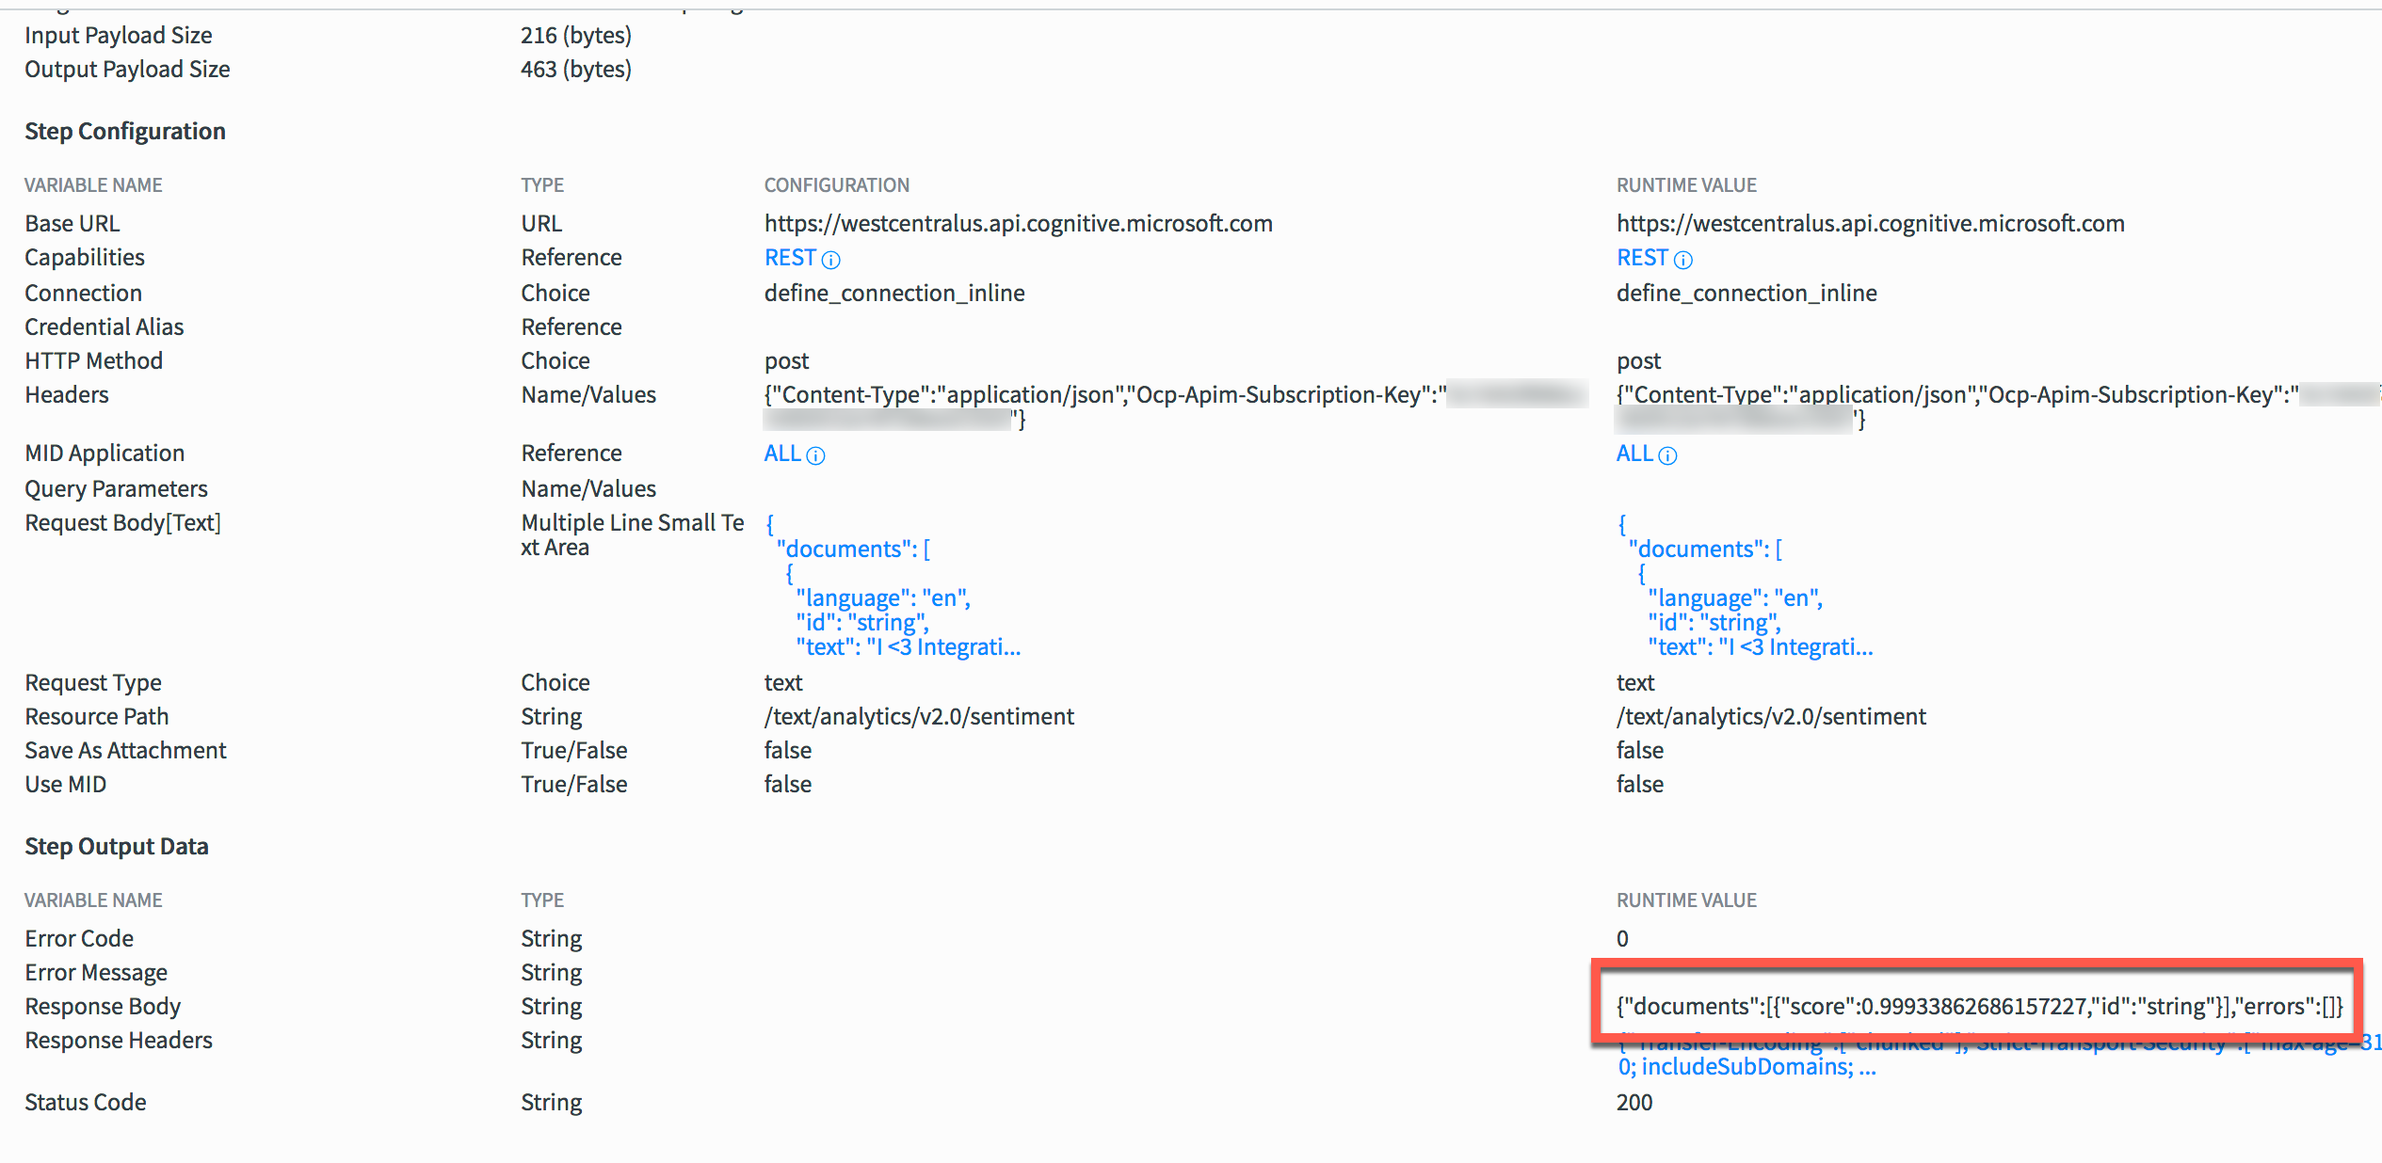
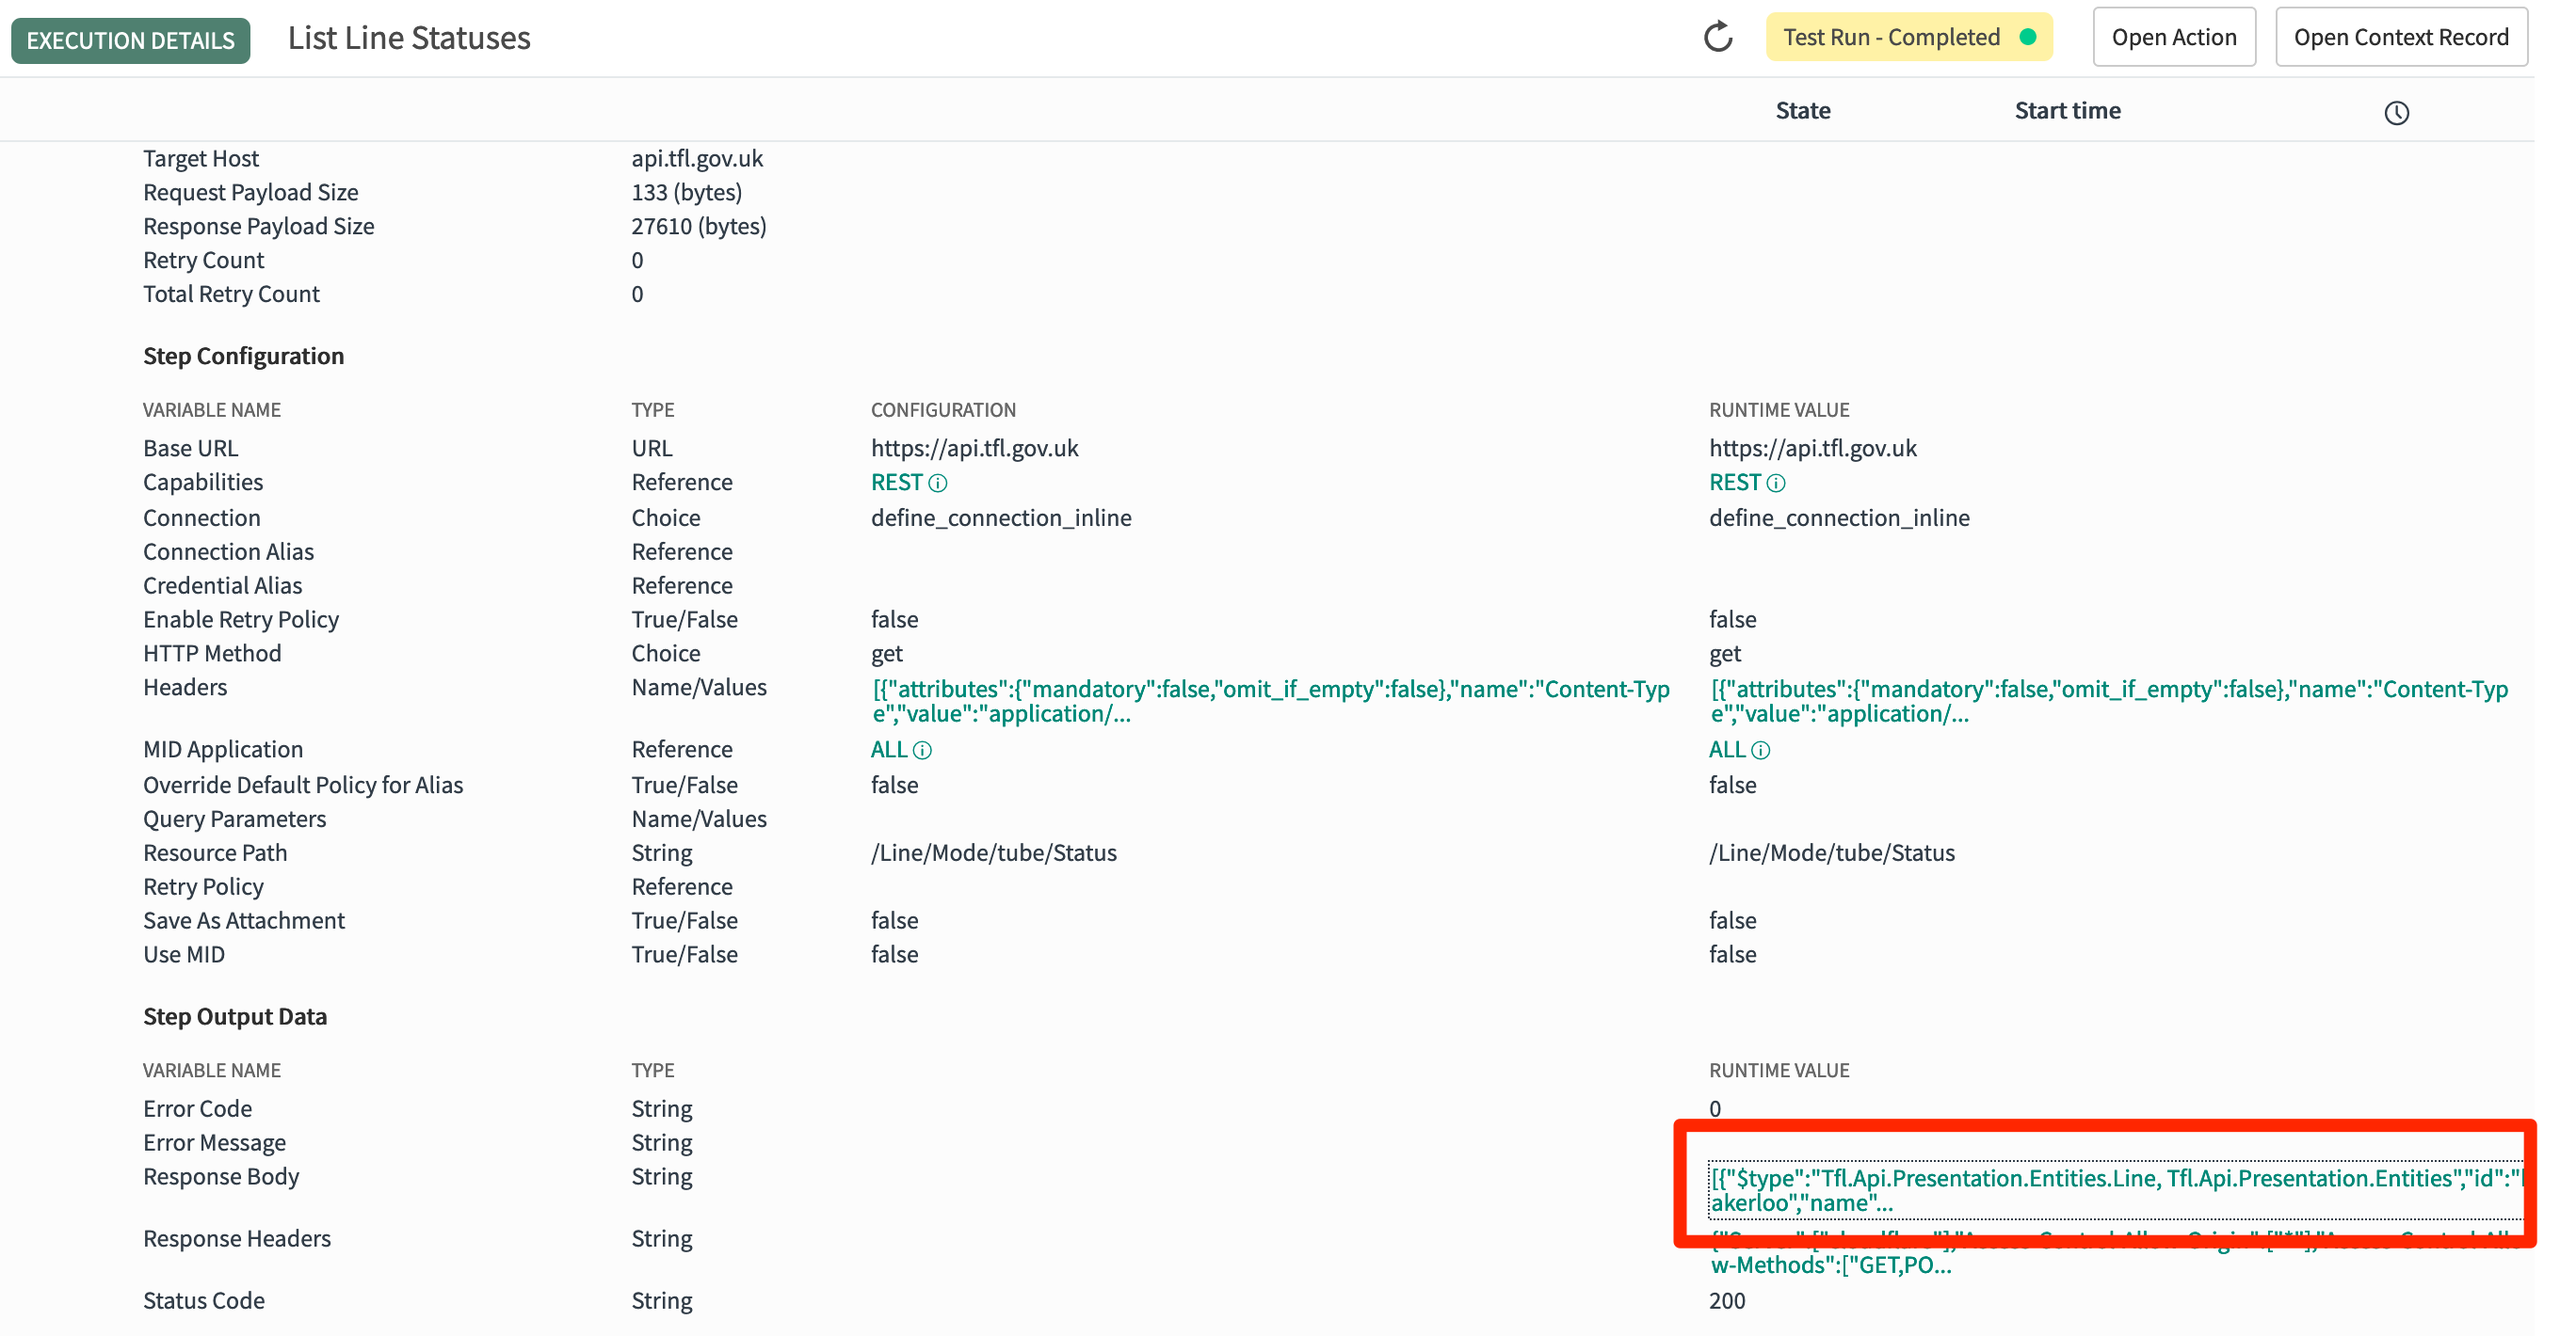
Finished the REST step section

diff --git a/guidebook.md b/guidebook.md
@@ -233,15 +233,13 @@ In this exercise, we will start with an inline connection, and convert the actio
 
 1. Change the **Connection** choice to “Define Connection Inline”.
 . Set the **Base URL** to `https://api.tfl.gov.uk`
-1. Set the **Resource Path** to `/Line/Mode/{modes}/Status`
-1.  Inside the **Resource Path** backspace to remove the `{modes}` portion. Drag the **Modes** Data Pill from the input between the now empty slashes so that it looks like this:
-    ![Drag the Data Pill to the Resource Path](images/042a_resource_path_with_pill.png)
-1. Make sure there are no leading/trailing spaces in the Base URL and Resource Path fields. Also verify there are no spaces between the slashes and data pill.
+1. Set the **Resource Path** to `/Line/Mode/tube/Status`
+1. Make sure there are no leading/trailing spaces in the Base URL and Resource Path fields. 
 1. Set the **HTTP Method** to “GET”.
 
 ### Add Headers
 
-You will add two request headers.
+You will add one request header.
 
 1. Beside the **Headers** widget, click the **+** icon.
     ![Alt Text](images/042b_add_header.png)
@@ -254,44 +252,29 @@ The headers widget should now look something like this:
 
 ![Alt Text](images/043_headers.png)
 
-### Set Request Body
-
-Under the **Request Content** section, set the **Request Body** to:
-
-    {
-       "documents":  [
-            {
-                "language": "en",
-                "id": "string",
-                "text": "I <3 IntegrationHub"
-            }
-        ]
-    }
 
 **Save** the action.
 
 ### Test the Action
 
-Using the same steps you followed earlier, test the action again. This time, inspect the details of the REST step. If everything worked correctly, you will see a response from the Sentiment API.
+Using the same steps you followed earlier, test the action again. This time, inspect the details of the REST step. If everything worked correctly, you will see a response from the Transit API.
 
 ![Alt Text](images/044_result_of_rest_test.png)
 
 ## Data Pills
 
-There’s problem with the REST step you just configured. You hard-coded the message into the Body. Action Designer gives you the ability to include “Data Pills” (those blue things in the Data Pane) inside the Payload.
+There’s problem with the REST step you just configured. You hard-coded the mode  ("tube") in the Resource Path. Action Designer gives you the ability to include “Data Pills” (those blue things in the Data Pane) in paths, in the body of POSTs and  even inside headers.
 
-1. Remove the hard coded message from the “text” property in the payload.
-2. With the cursor inside the quotes, click the Data Pill Picker.
-    ![Alt Text](images/045_data_pill_picker.png)
-3. Click **Inputs** and then click the **Text** input you created earlier.
-    ![Alt Text](images/046_data_pill_picker_select_text_input.png)
-4. You should now see the **action -\> Text** data pill inside the “text” property of the payload. If there are any extra spaces between the data pill and the closing quote, remove them.
-    ![Alt Text](images/047_request_body_with_pill.png)
-5. **Save** the action.
+1.  Inside the **Resource Path** backspace to remove the `tube` portion. Drag the **Modes** Data Pill from the input between the now empty slashes so that it looks like this:
+    ![Drag the Data Pill to the Resource Path](images/042a_resource_path_with_pill.png)
+
+1. Verify that there is no whitespace between the slashes and the data pill.
+
+1. **Save** the action.
 
 ### Test the Action with the Data Pill in place
 
-Go back to your test flow, and set the input of the flow to the sentence you would like to analyze. Test the flow, and make sure the Action input made it into the Sentiment API call.
+Test as you did before with the **Test** button. You will be presented with a form to enter the input of the action. Because this input is mandatory, you must provide some text. Try with "tube" to verify you see the same text as before. Then for fun, try with "river-bus" or "cable-car" (or even both, comma separated.) Try as well with nonsense text to see the result of that input.
 
 # Configure a Connection Alias and Connection
 
